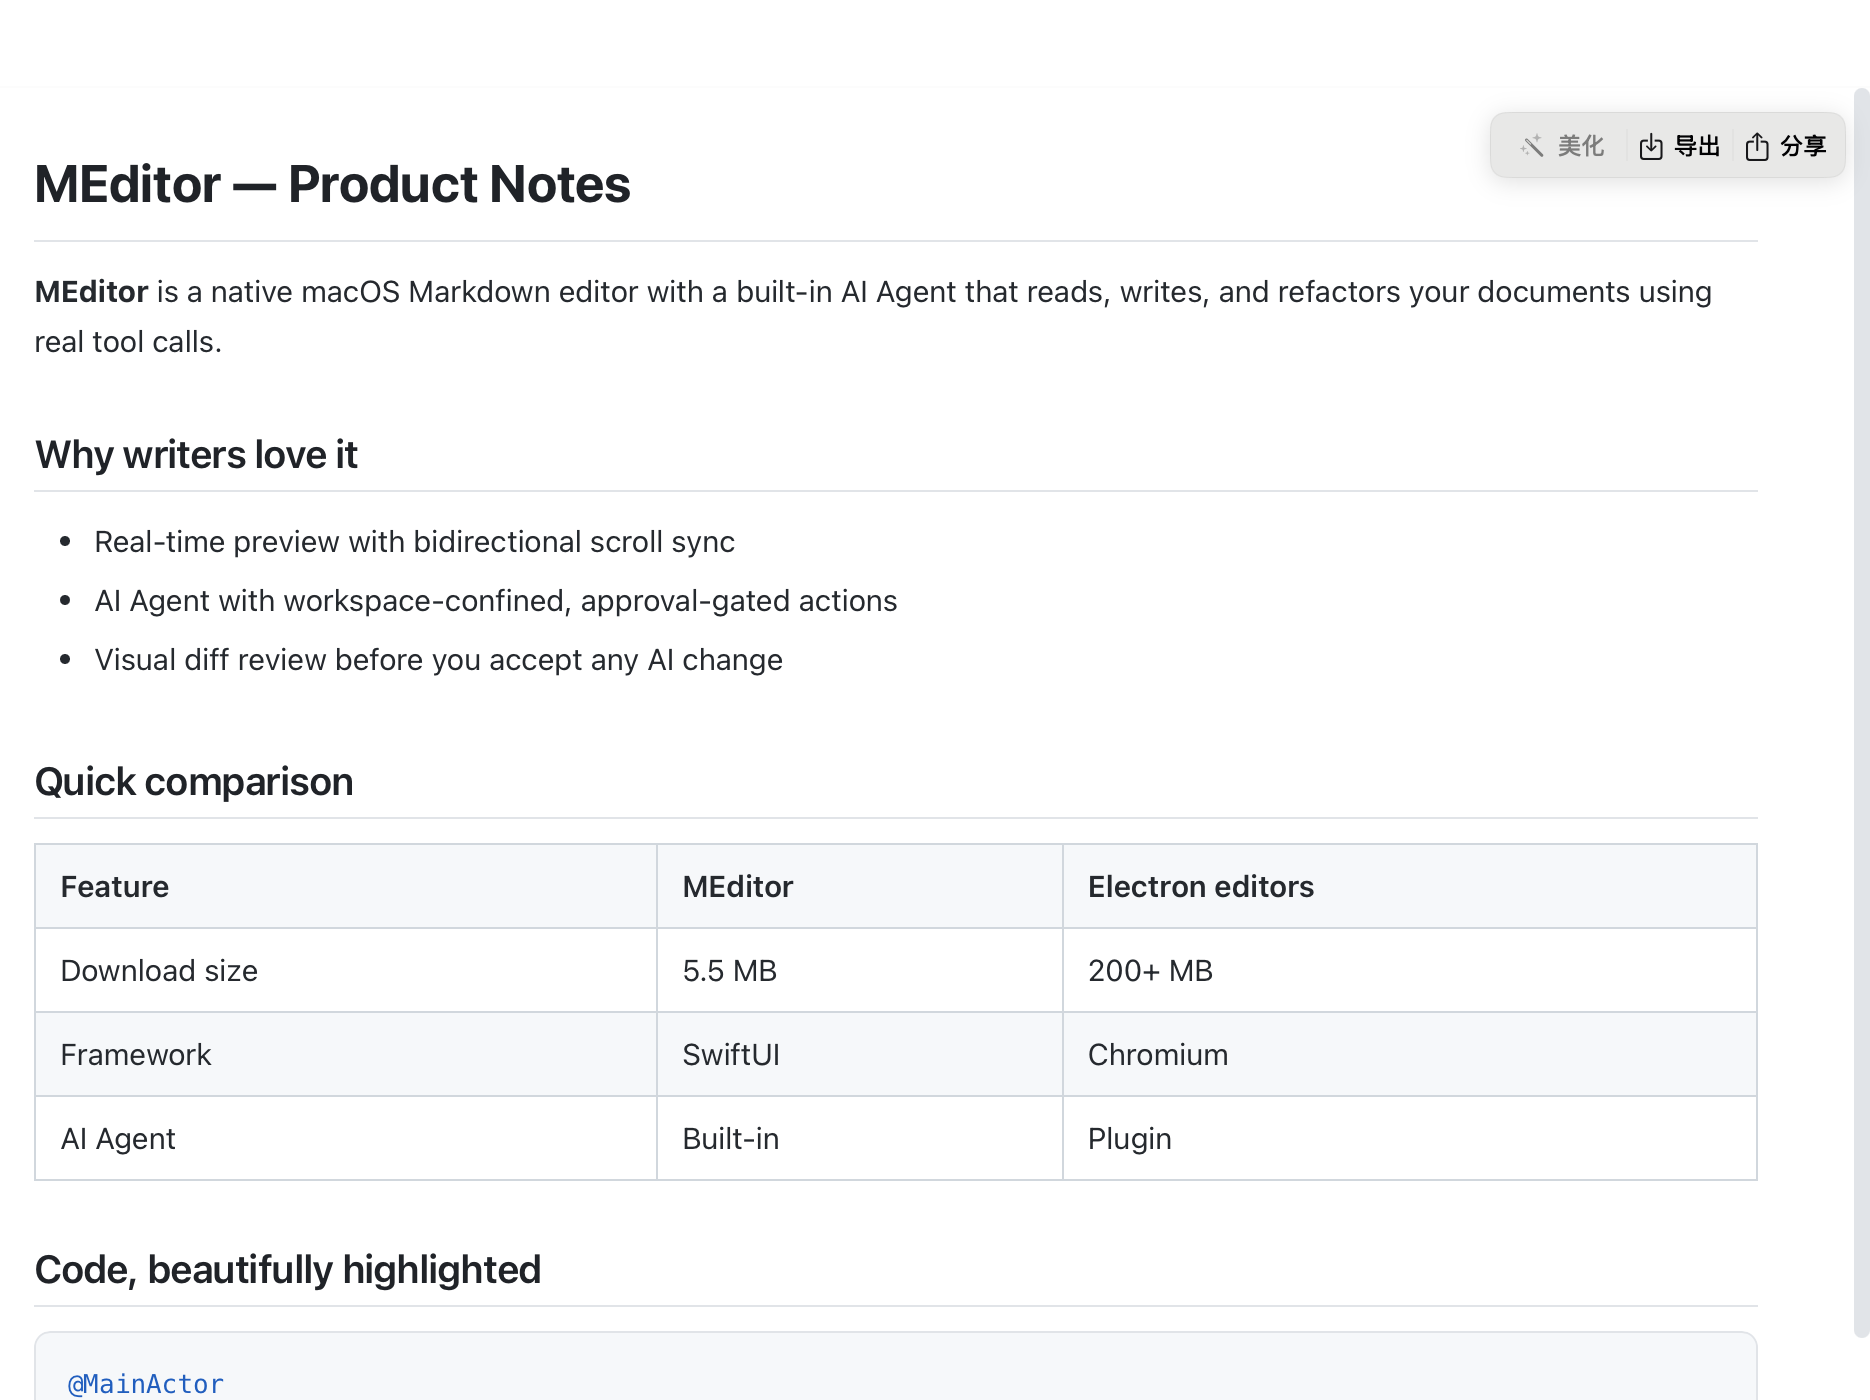
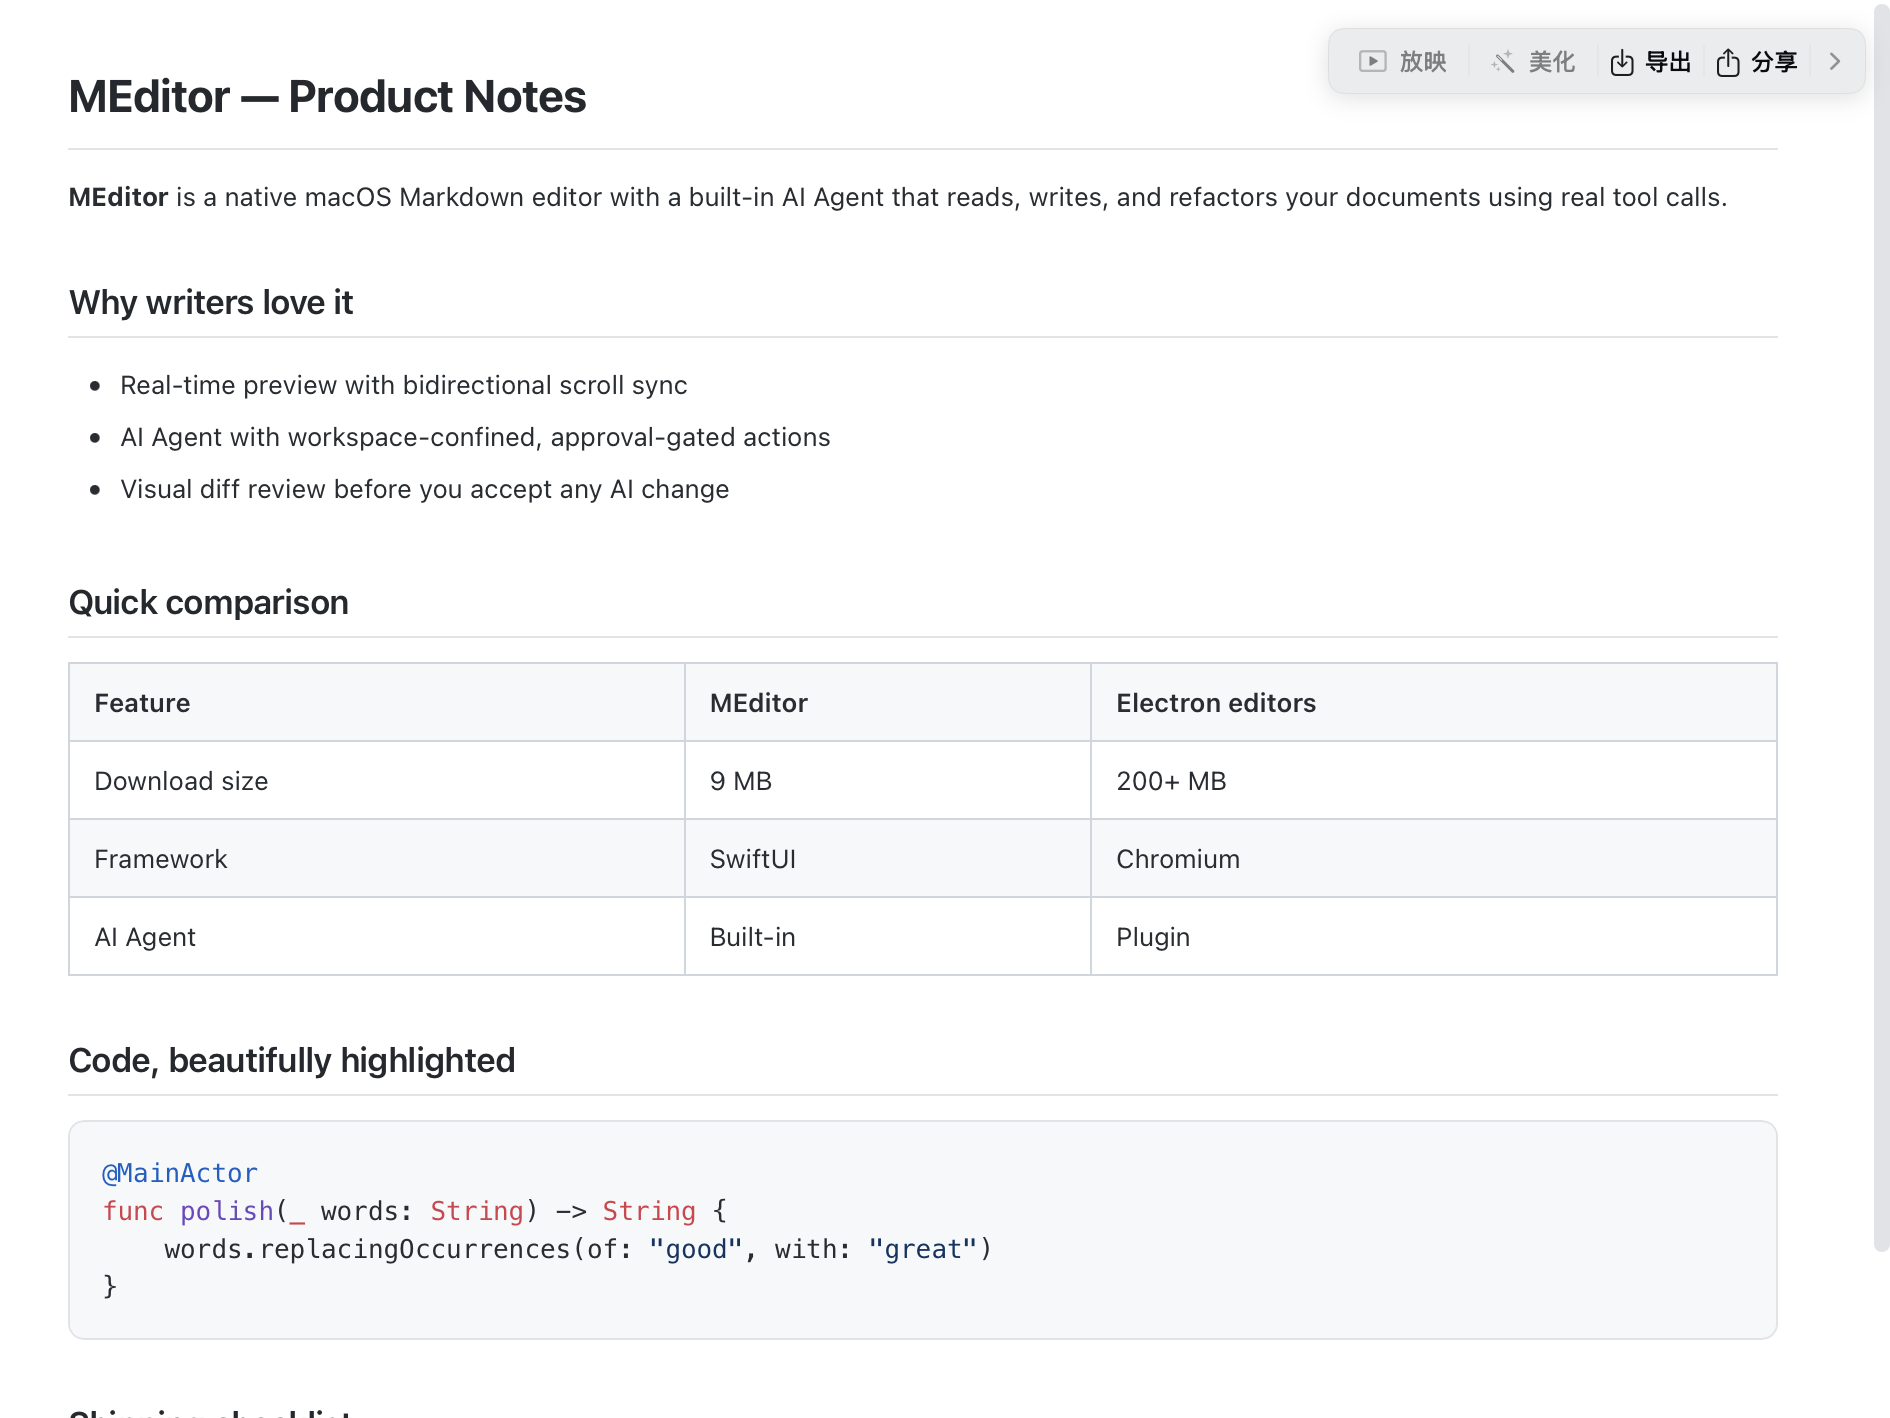
site: 截图更新为 0.6.x 新 UI（工具栏 tab 条 + Liquid Glass 侧栏），演示文档对比表 5.5MB→9MB；编辑器列表补放映/专注模式/自动更新，修正主题名

diff --git a/website/index.html b/website/index.html
@@ -634,7 +634,7 @@
 
   <div class="hero-media">
     <div class="hero-screenshot">
-      <img src="images/hero.png?v=2" alt="MEditor — native macOS Markdown editor with workspace, outline and live preview" width="2560" height="1555">
+      <img src="images/hero.png?v=3" alt="MEditor — native macOS Markdown editor with workspace, outline and live preview" width="2560" height="1555">
     </div>
   </div>
 </div>
@@ -679,7 +679,7 @@
       <div class="card-title">Built-in AI Agent</div>
       <div class="card-desc">Multi-turn reasoning loop. The Agent reads your document, calls tools, sees results, and keeps going until the task is done — all inline.</div>
       <div class="card-media">
-        <img src="images/ai-agent.png?v=2" alt="AI Agent panel floating over the editor" loading="lazy">
+        <img src="images/ai-agent.png?v=3" alt="AI Agent panel floating over the editor" loading="lazy">
       </div>
     </div>
 
@@ -689,7 +689,7 @@
       <div class="card-title">Real-time Preview</div>
       <div class="card-desc">Editor and preview scroll in sync. Code blocks, Mermaid diagrams, and math rendered instantly as you type.</div>
       <div class="card-media">
-        <img src="images/preview.png?v=2" alt="Rendered Markdown preview with tables and lists" loading="lazy">
+        <img src="images/preview.png?v=3" alt="Rendered Markdown preview with tables and lists" loading="lazy">
       </div>
     </div>
 
@@ -699,7 +699,7 @@
       <div class="card-title">Workspace Tools</div>
       <div class="card-desc">List files, search across your vault, open tabs, run sandboxed shell commands — all accessible to the AI Agent.</div>
       <div class="card-media">
-        <img src="images/workspace.png?v=2" alt="Workspace sidebar with file list and document outline" loading="lazy">
+        <img src="images/workspace.png?v=3" alt="Workspace sidebar with file list and document outline" loading="lazy">
       </div>
     </div>
 
@@ -709,7 +709,7 @@
       <div class="card-title">Streaming Output</div>
       <div class="card-desc">Responses appear word-by-word. Tool steps show inline with expand/collapse detail — you always know what the Agent is doing.</div>
       <div class="card-media">
-        <img src="images/streaming.png?v=2" alt="AI assistant with @mention file references and suggestions" loading="lazy" style="object-position: top">
+        <img src="images/streaming.png?v=3" alt="AI assistant with @mention file references and suggestions" loading="lazy" style="object-position: top">
       </div>
     </div>
 
@@ -754,7 +754,7 @@
     </ul>
   </div>
   <div class="split-visual reveal from-right">
-    <img src="images/ai-panel.png?v=2" alt="AI Agent panel with @mention references and context chip" loading="lazy">
+    <img src="images/ai-panel.png?v=3" alt="AI Agent panel with @mention references and context chip" loading="lazy">
   </div>
 </div>
 
@@ -766,15 +766,17 @@
     <p>Syntax highlighting for 40+ languages, bidirectional scroll sync with anti-loop protection, native find &amp; replace with jump-to-line, and a fuzzy file finder (⌘P) — everything you'd expect from a desktop app.</p>
     <ul class="feature-list">
       <li>Live Markdown preview with Mermaid diagram support</li>
+      <li>Presentation mode — turn any document into slides</li>
+      <li>Focus mode for distraction-free writing</li>
       <li>Todo inbox with calendar &amp; week timeline views</li>
       <li>Document templates for recurring note types</li>
       <li>Drag-to-reorder tabs, close confirmation, reopen closed tab</li>
-      <li>GitHub Light, Nord, and Dracula themes</li>
-      <li>Session restore across launches — tabs, folder, selection</li>
+      <li>GitHub, Nord, and Dracula themes</li>
+      <li>Automatic updates — new versions install themselves</li>
     </ul>
   </div>
   <div class="split-visual reveal from-left">
-    <img src="images/editor.png?v=2" alt="MEditor editor view with rendered Markdown, table and code block" loading="lazy">
+    <img src="images/editor.png?v=3" alt="MEditor editor view with rendered Markdown, table and code block" loading="lazy">
   </div>
 </div>
 
